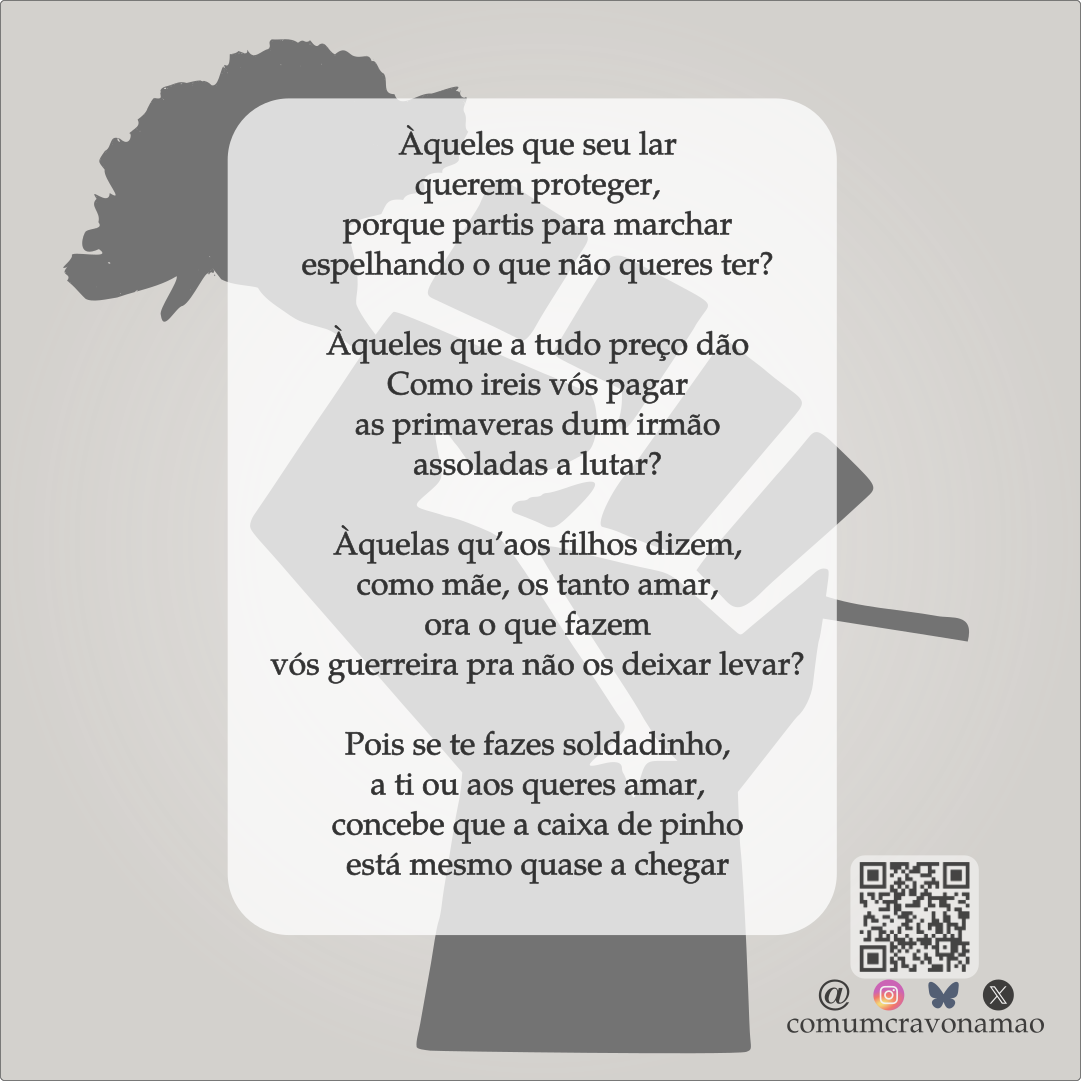
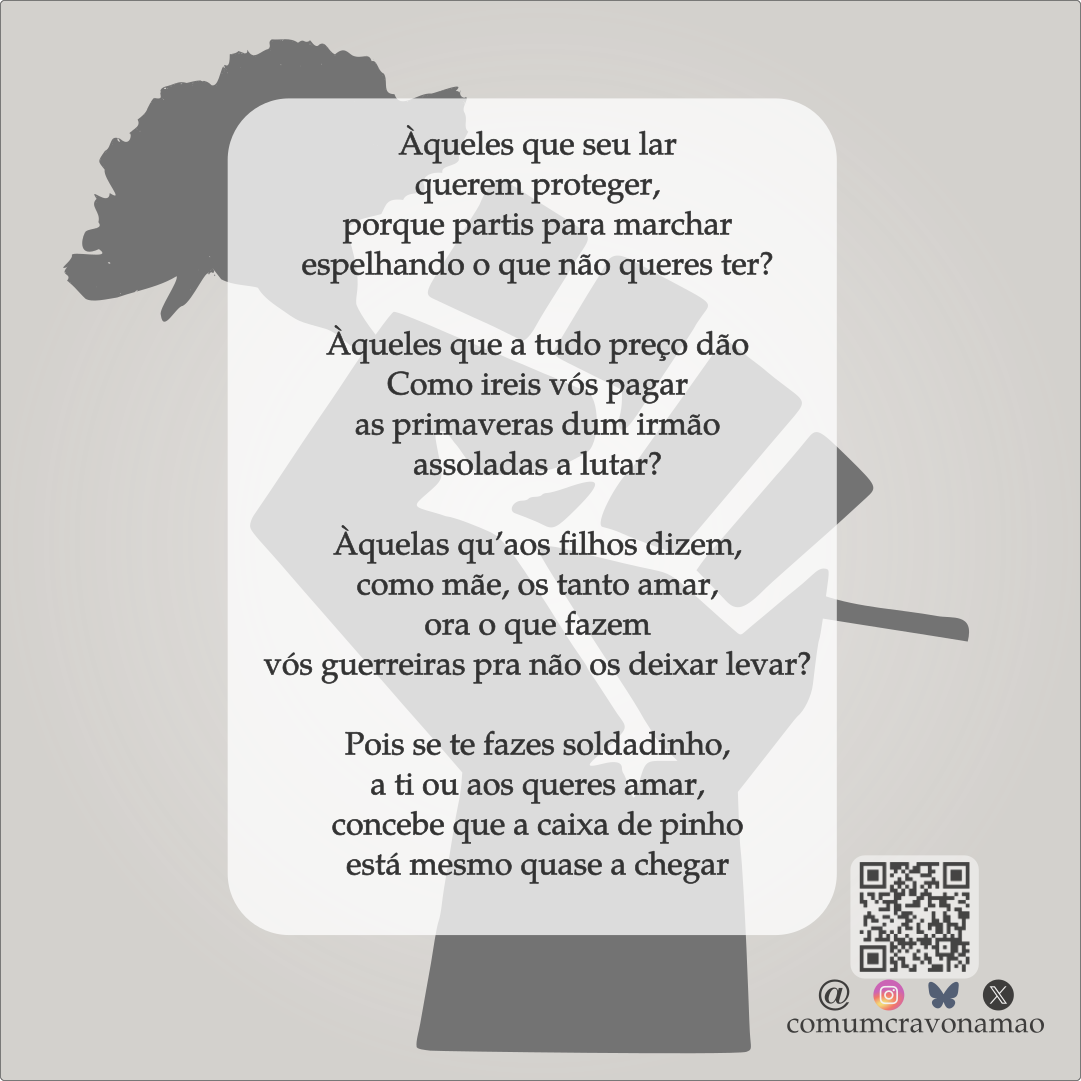
Fix guerreira to guerreiras

Changed region(s): [[0.2442, 0.6105, 0.7632, 0.6411]]

diff --git a/_posts/2025-03-18-nao-facam-de-nos-soldadinhos.md b/_posts/2025-03-18-nao-facam-de-nos-soldadinhos.md
@@ -23,7 +23,7 @@ assoladas a lutar?<br>
 Àquelas qu’aos filhos dizem,<br>
 como mãe, os tanto amar,<br>
 ora o que fazem<br>
-vós guerreira pra não os deixar levar?<br>
+vós guerreiras pra não os deixar levar?<br>
 <br>
 Pois se te fazes soldadinho,<br>
 a ti ou aos queres amar,<br>
